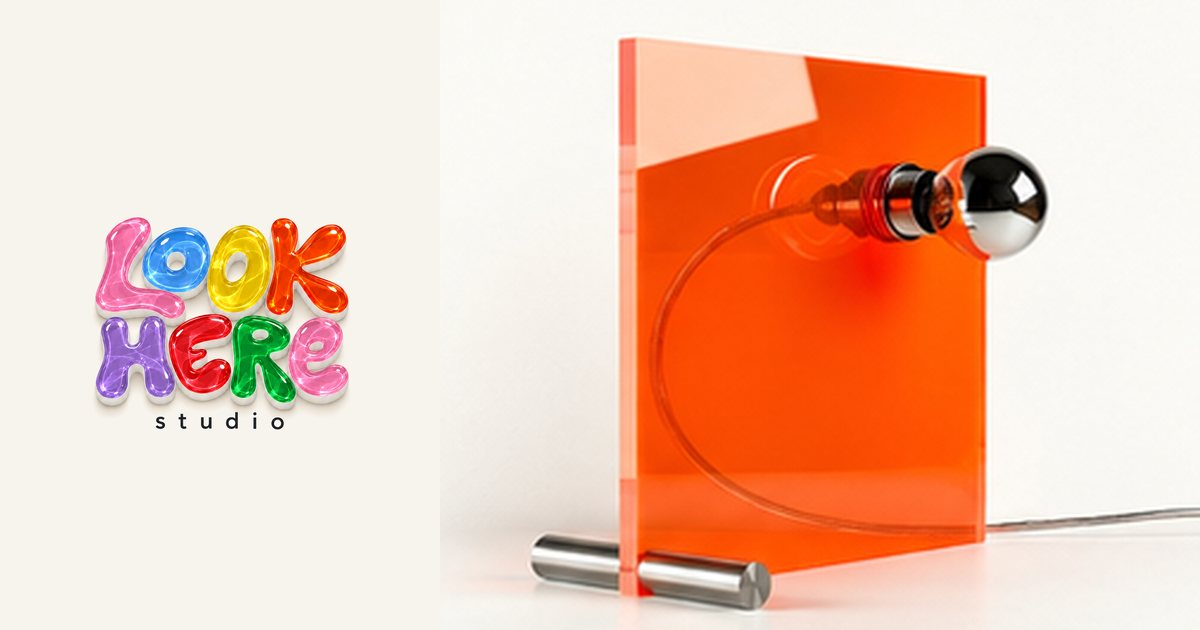
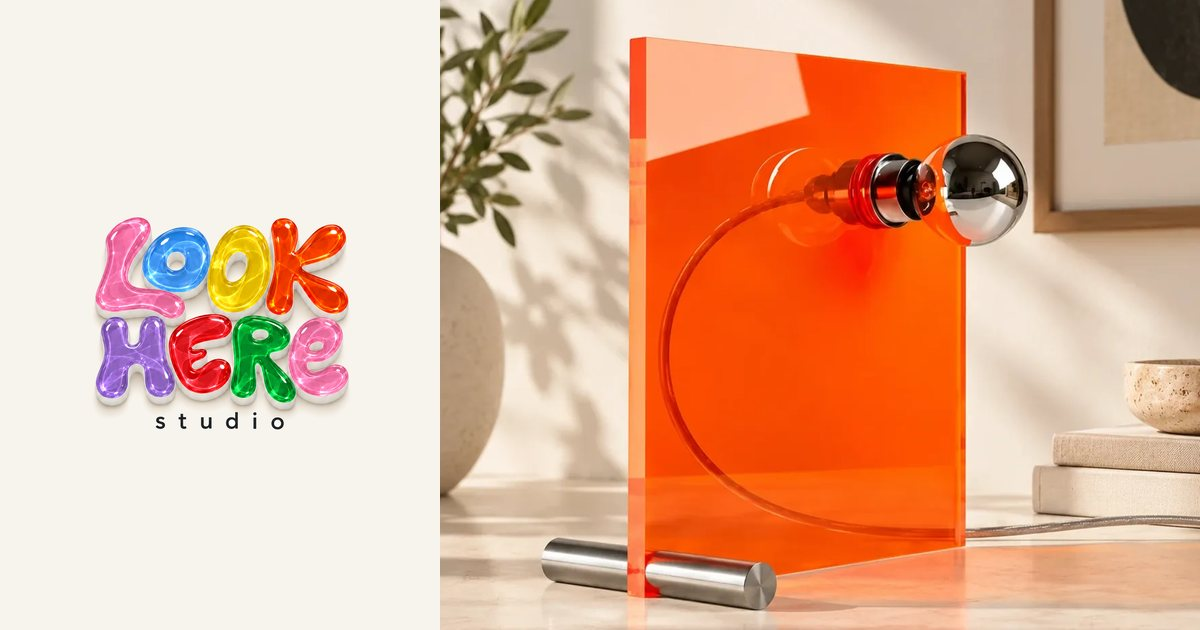
Acrylic Lamp: new lifestyle photography (day + lit)

diff --git a/data/products.ts b/data/products.ts
@@ -70,8 +70,9 @@ export const products: Product[] = [
     price: 9200,
     currency: "INR",
     status: "available",
-    images: ["/objects/acrylic-lamp.webp"],
+    images: ["/objects/acrylic-lamp-1.webp", "/objects/acrylic-lamp-2.webp"],
     lifestyleImages: [],
+    imageFit: "cover",
     leadTime: "Ships in 3–5 days",
     care: "Acrylic scratches — wipe with a soft damp cloth only.",
     installation: "Plugs in. Globe bulb included.",
